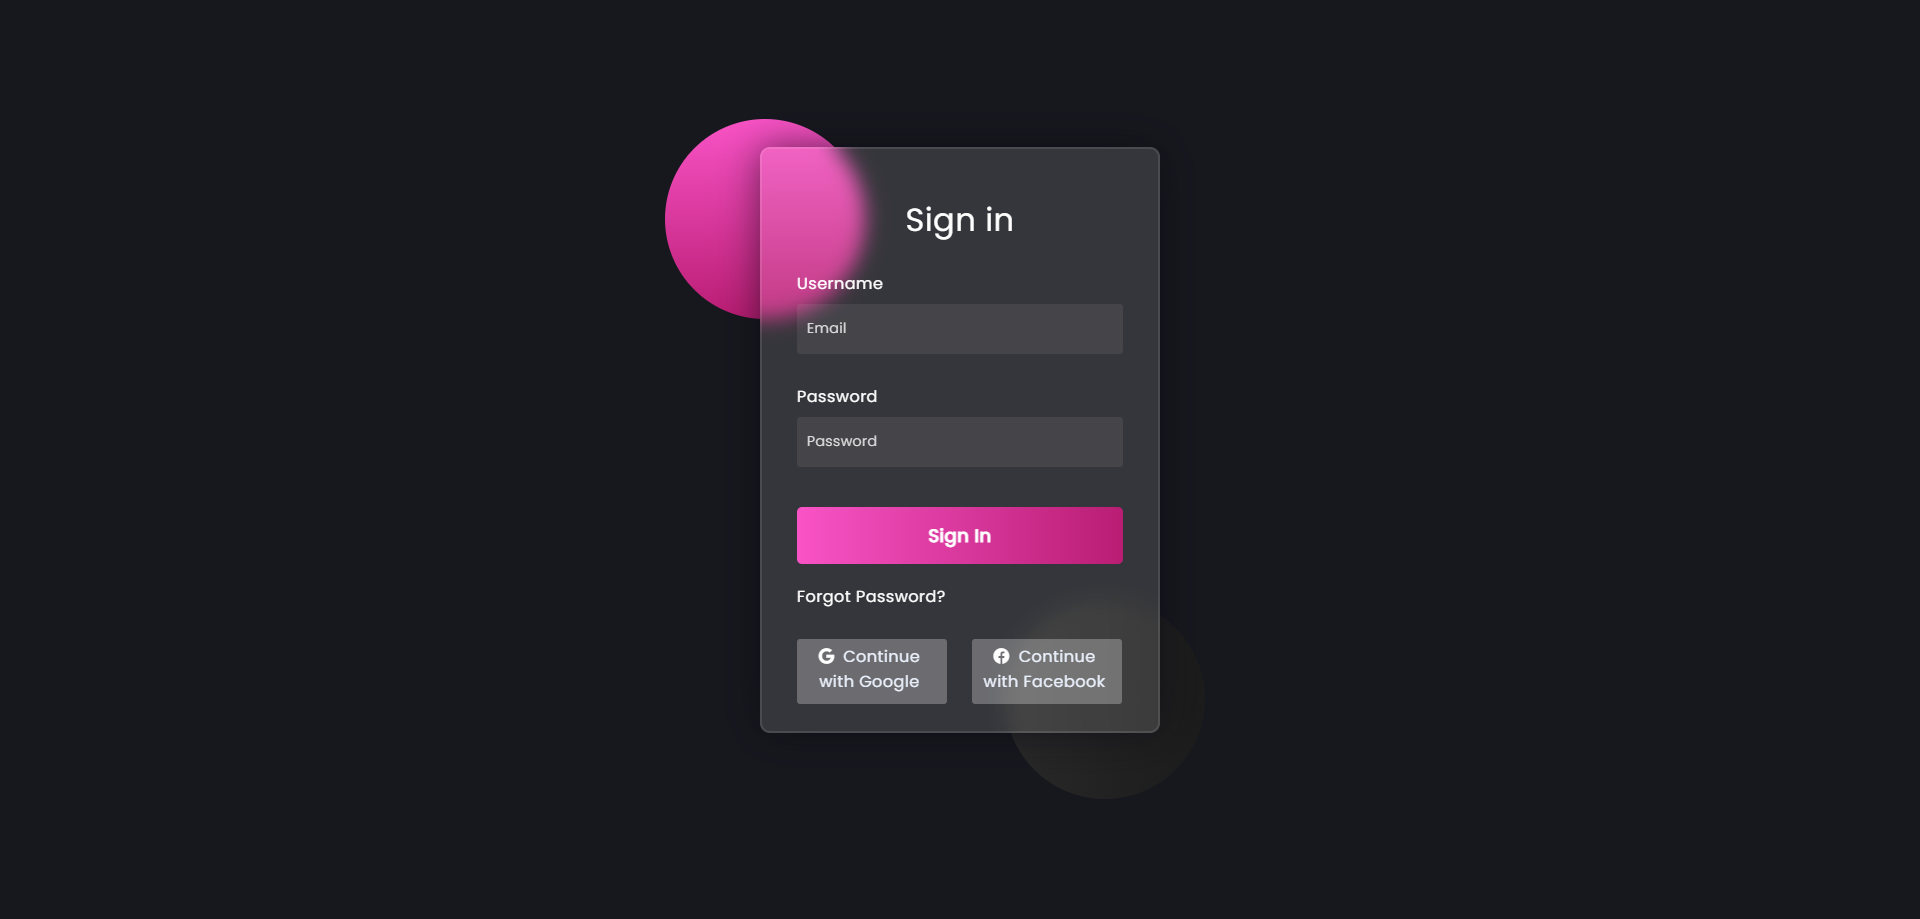
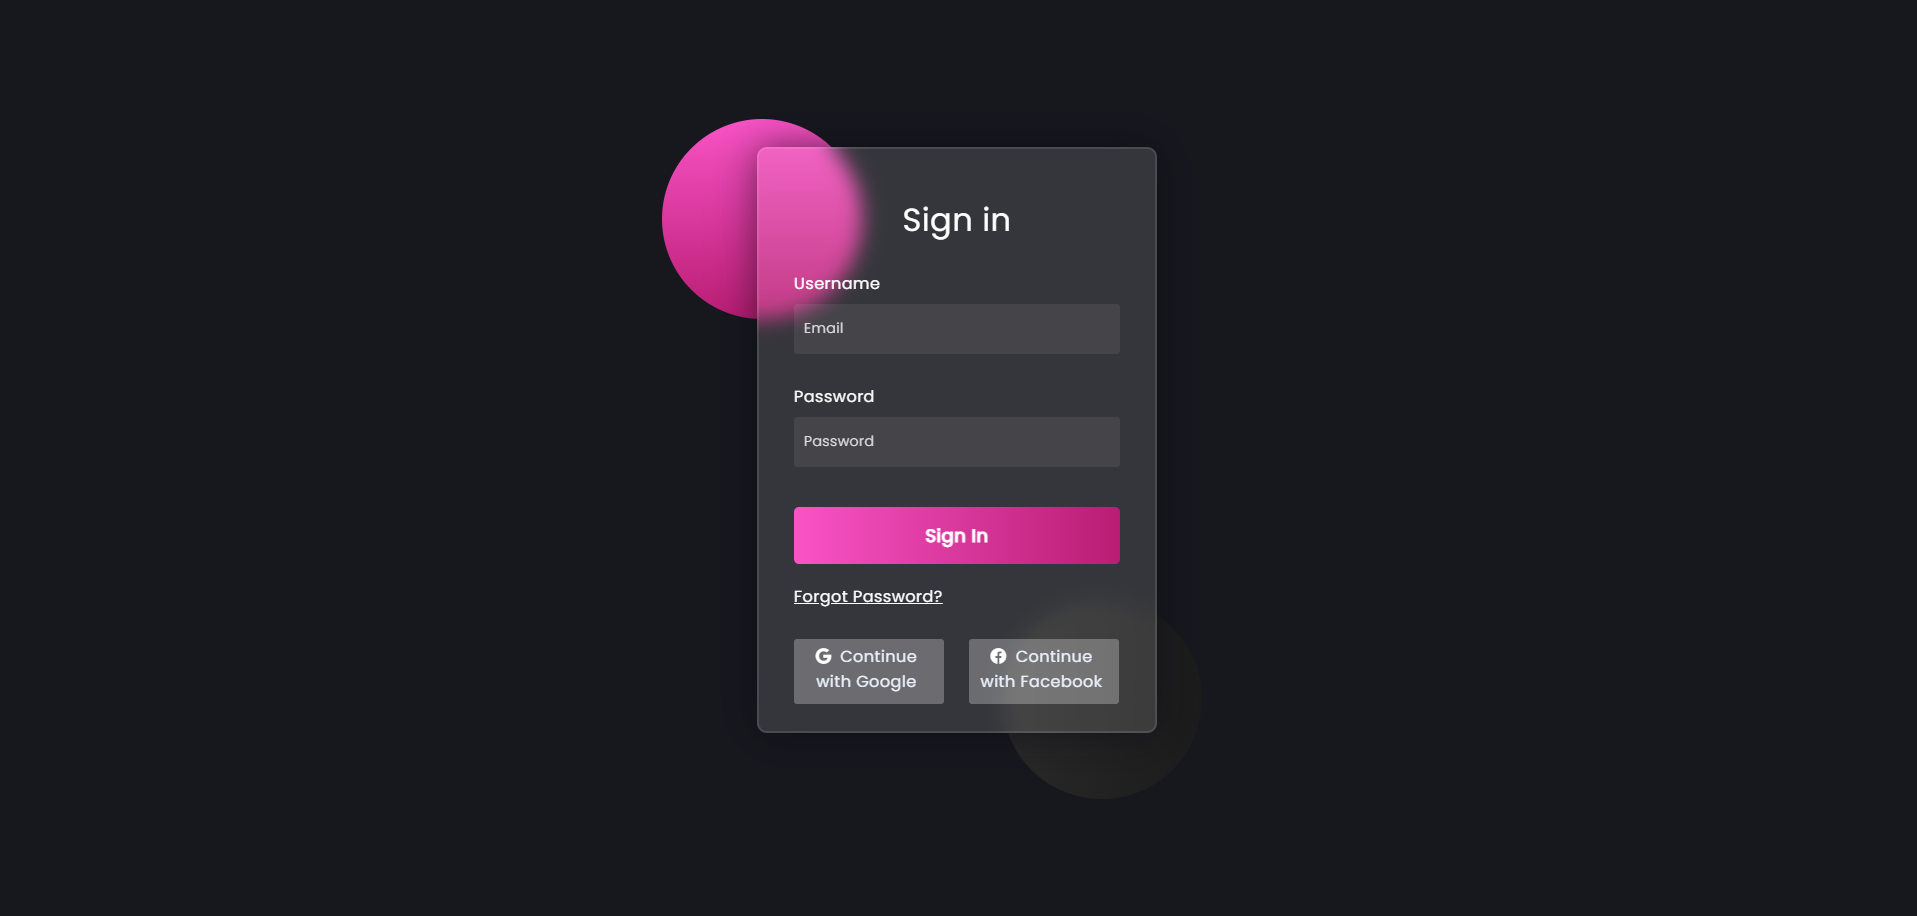
Change CSS

diff --git a/login-form/index.html b/login-form/index.html
@@ -31,7 +31,7 @@
     <input type="password" placeholder="Password" id="password" required>
 
     <button>Sign In</button>
-    <span class="pass">Forgot Password?</span>
+    <a href="#">Forgot Password?</a>
 
     <div class="social">
       <div class="go"><i class="fab fa-google"></i> Continue with Google</div>

diff --git a/login-form/style.css b/login-form/style.css
@@ -108,7 +108,7 @@ button {
     cursor: pointer;
 }
 
-span {
+a {
     display:block;
     margin-top: 20px;
     font-size: 16px;
